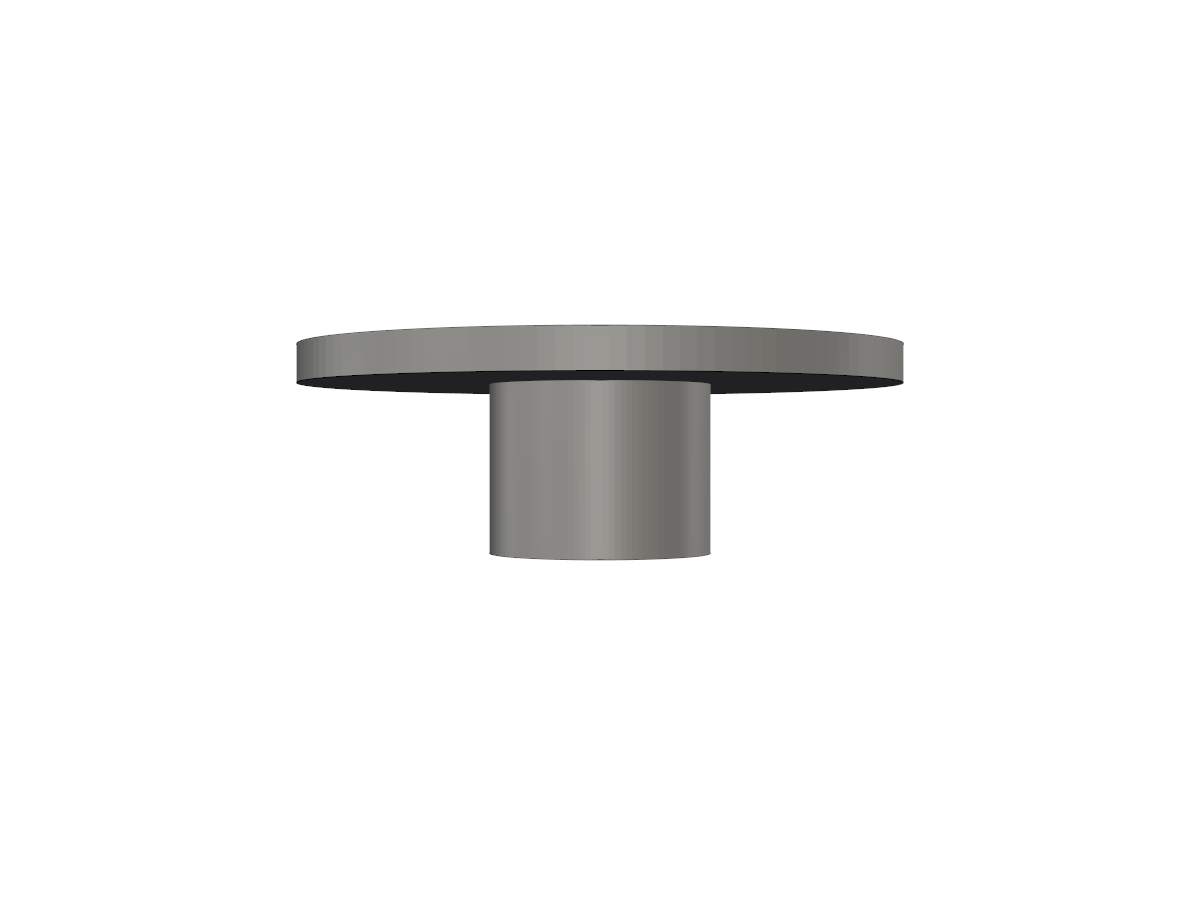
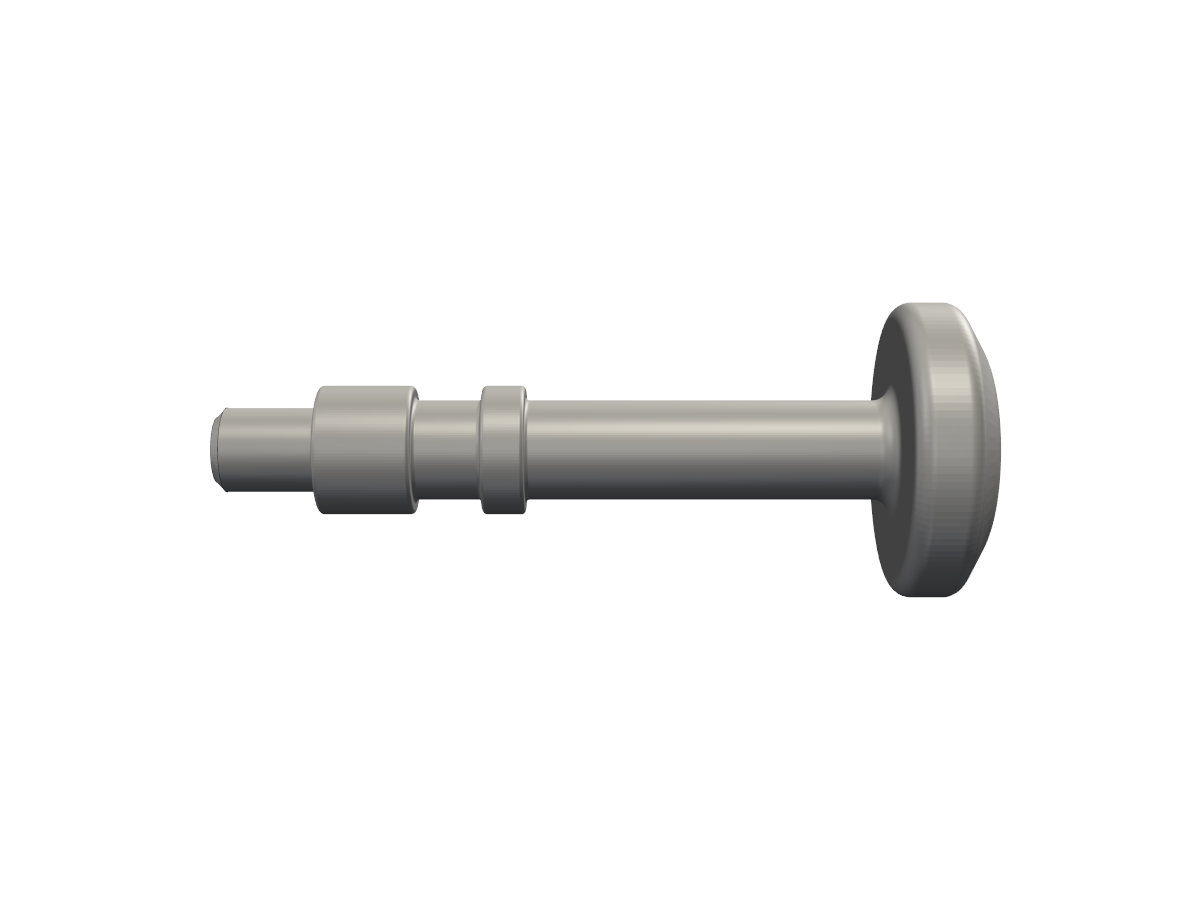
main: ngrok & flask launch on startup

Changed region(s): [[0.1542, 0.3111, 0.8325, 0.6844]]

diff --git a/main.py b/main.py
@@ -1,13 +1,15 @@
 from flask import Flask
 from api import register_blueprints
+from pyngrok import ngrok
+from dotenv import load_dotenv
 
+load_dotenv()
 
 app = Flask(__name__)
-
 register_blueprints(app)
 
 if __name__ == "__main__":
     port = 5000
-
-
-    app.run(debug=True, port=port)
+    public_url = ngrok.connect(port).public_url
+    print(f" * ngrok tunnel: {public_url} -> http://127.0.0.1:{port}")
+    app.run(port=port)

diff --git a/README.md b/README.md
@@ -10,9 +10,9 @@ Trigger it with a single `POST` request, tunnel it through `ngrok`, and let Zoho
 
 ```
 ┌──────────────┐     ┌────────────────┐     ┌───────────────┐     ┌──────────────┐     ┌───────────────────┐
-│ POST /steps  │ ──▶ │ Download STEP  │ ──▶ │ CadQuery       │ ──▶ │ PyVista       │ ──▶ │ Zoho Inventory     │
-│ (item info,  │     │ from Zoho      │     │ STEP → STL     │     │ render + cam  │     │ upload 2 PNGs      │
-│  token, url) │     │ WorkDrive      │     │ conversion     │     │ + screenshot  │     │ to item images     │
+│ POST /steps  │ ──▶│ Download STEP   │ ──▶│ CadQuery      │──▶ │ PyVista       │──▶ │ Zoho Inventory    │
+│ (item info,  │     │ from Zoho      │     │ STEP → STL    │     │ render + cam  │    │ upload 2 PNGs      │
+│  token, url) │     │ WorkDrive      │     │ conversion    │     │ + screenshot  │    │ to item images     │
 └──────────────┘     └────────────────┘     └───────────────┘     └──────────────┘     └───────────────────┘
 ```
 
@@ -57,10 +57,7 @@ pip install -r requirements.txt
 ```bash
 python main.py
 ```
-Then, in another terminal, run
-```bash
-ngrok http 5000
-```
+
 
 This launches Flask and opens an ngrok tunnel, printing your public URL to the console:
 
